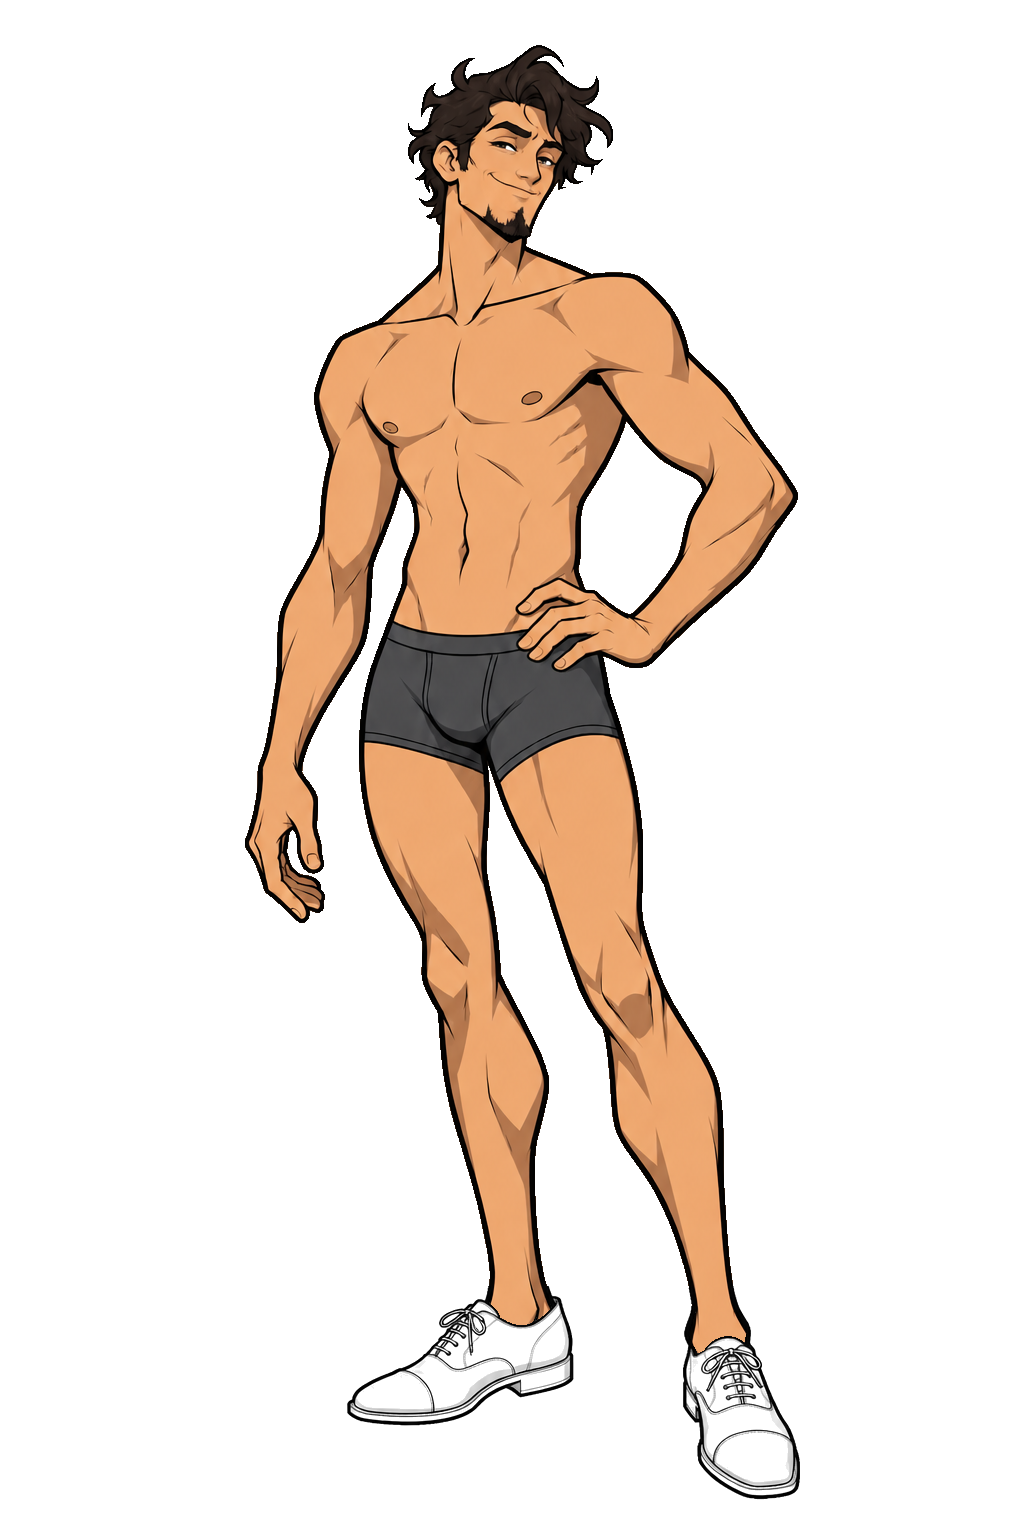
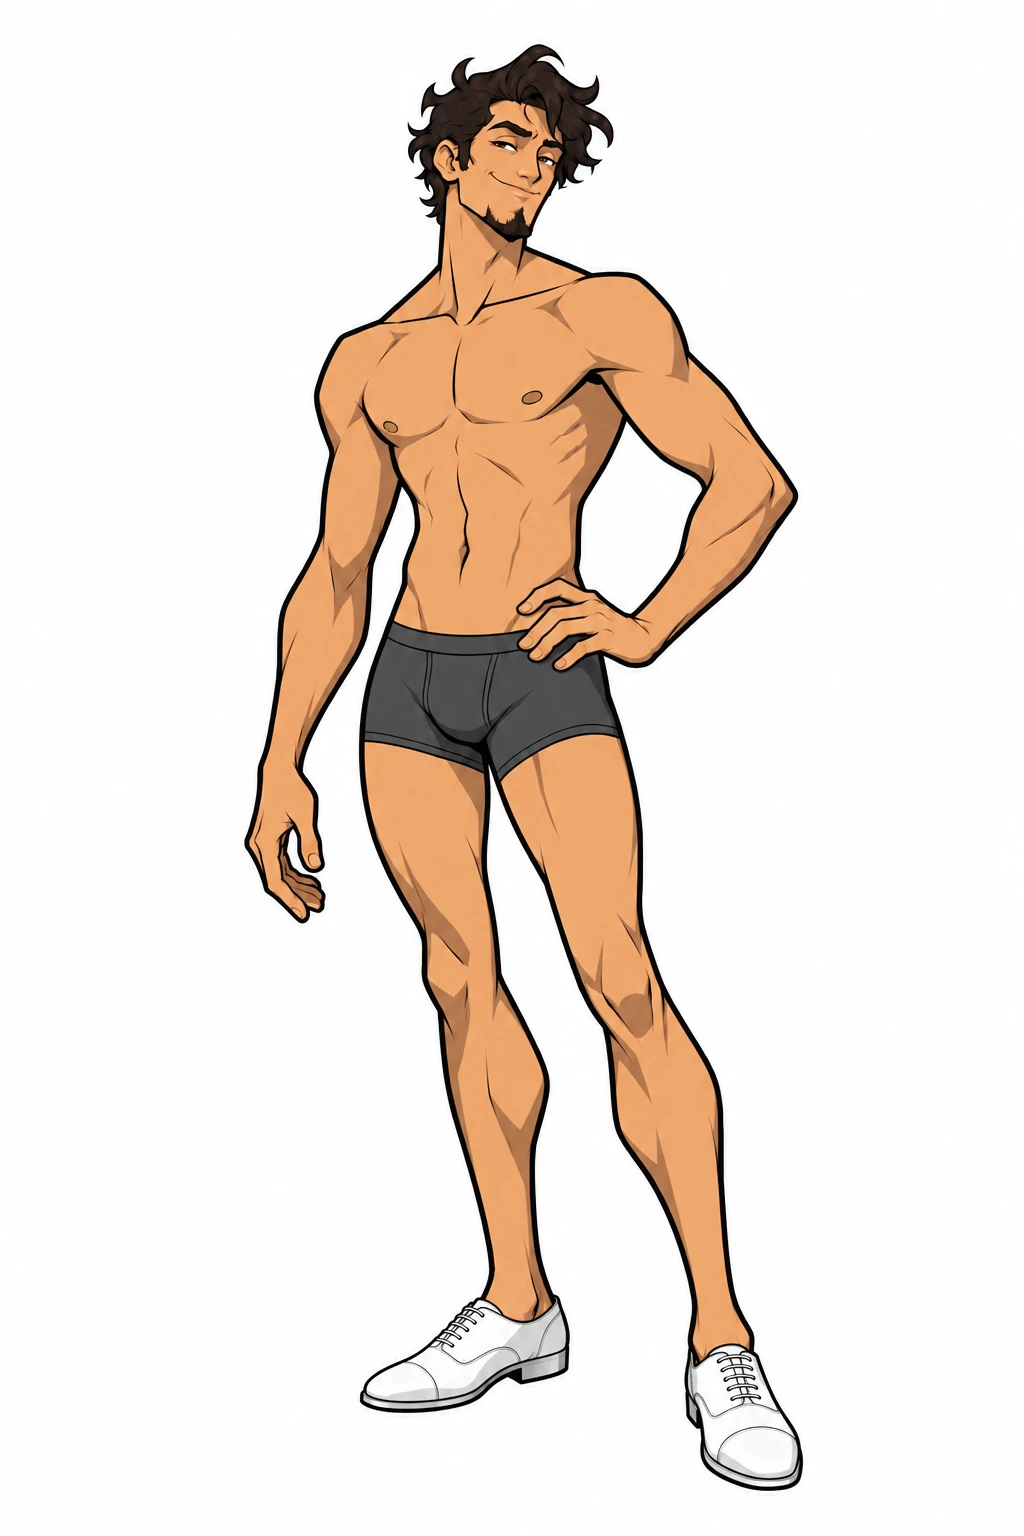
Примерочная: исходник туфель — полные туфли фасона из стопки
Claude-Session: https://claude.ai/code/session_013zhon25Gp5vam6iSjkw8f2

diff --git a/public/images/clothing-game/prod/README.md b/public/images/clothing-game/prod/README.md
@@ -21,7 +21,7 @@
    Руку на поясе не закрашивать.
 3. Экспорт PNG → `masks/<вещь>_mask.png`.
 
-Исходники: `pants` = стопка 1 (брюки), `shoes` и `shirt` — вещь целиком на голом персонаже,
+Исходники: `pants` = стопка 1 (брюки), `shoes` — полные туфли того же фасона, что в стопке (прежний вариант — `shoes_v1.png`), `shirt` — рубашка целиком на голом персонаже,
 `tie` = стопка 4 (на голубой рубашке), `jacket` = стопка 5 (на рубашке с галстуком).
 
 ## Зона замены на теле
